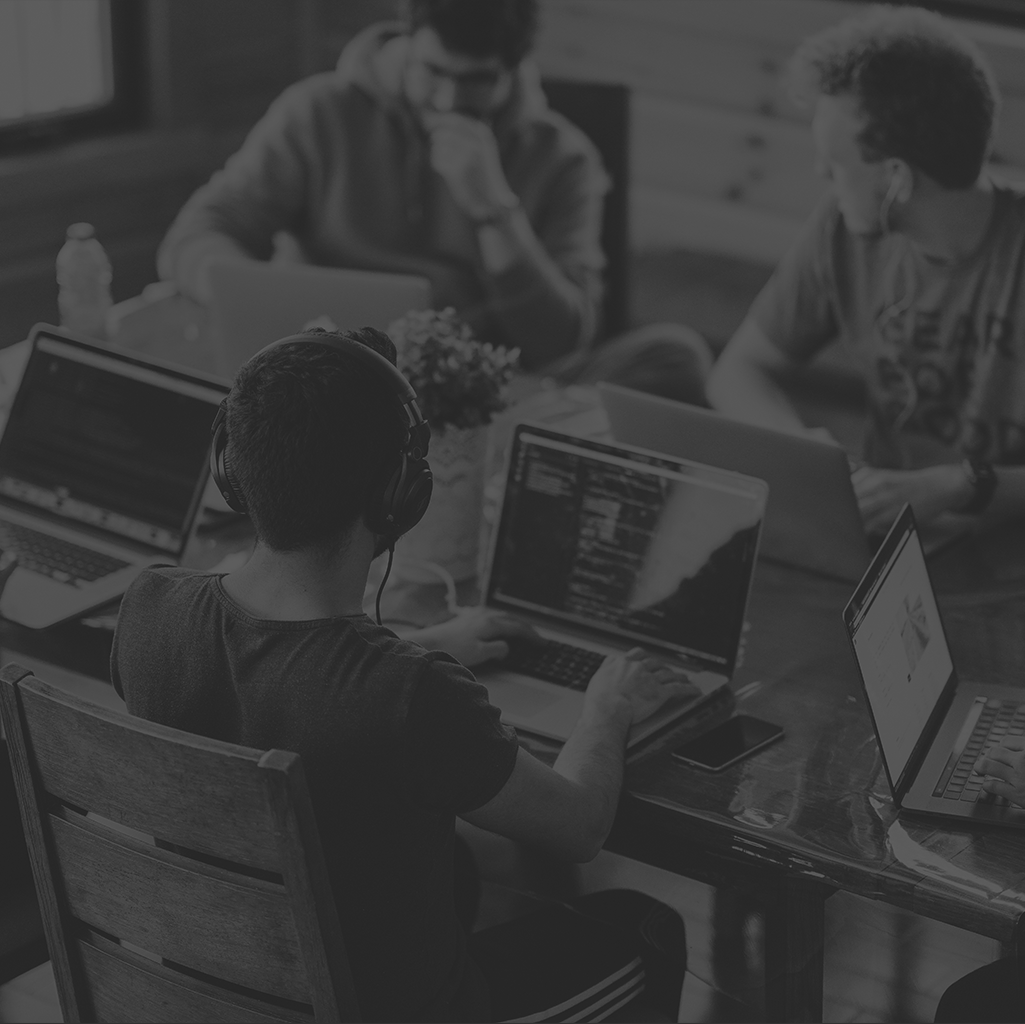
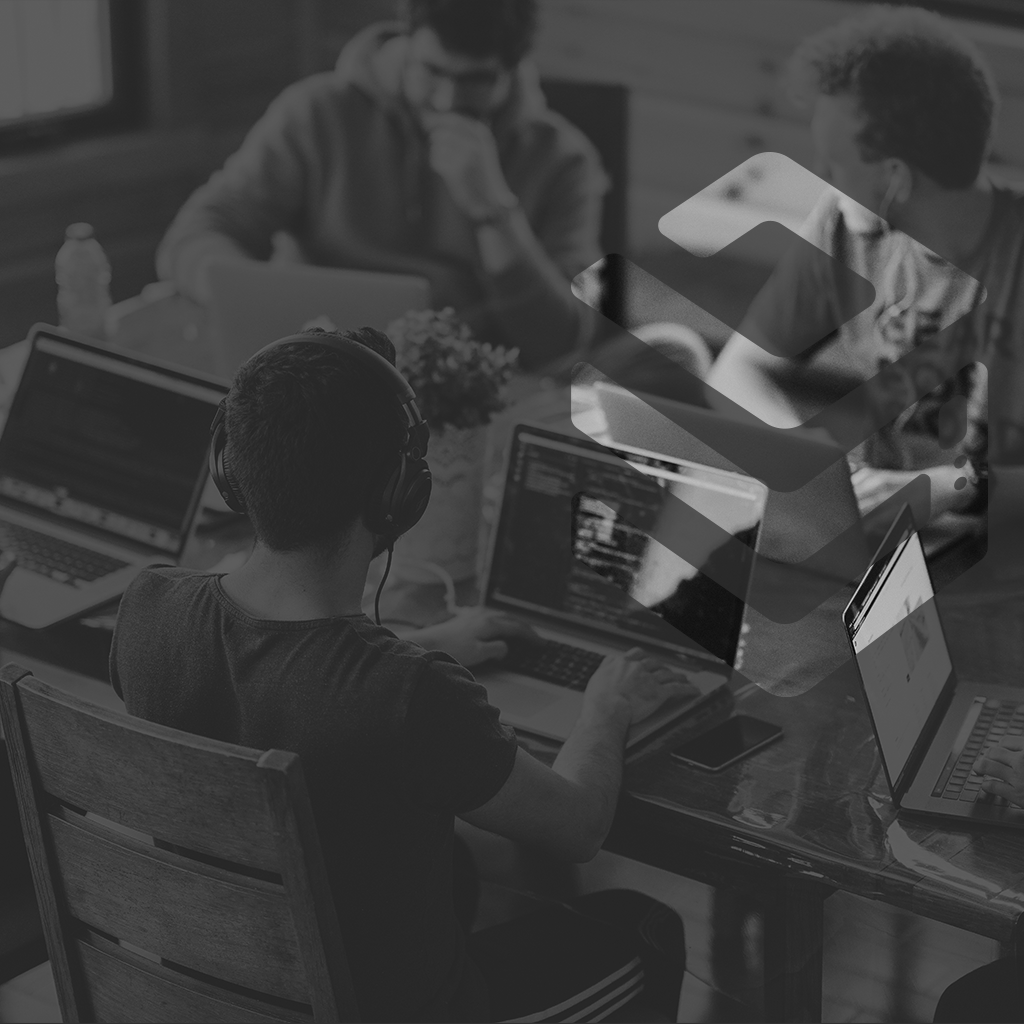
Team slider tabs

diff --git a/pages/index.html b/pages/index.html
@@ -128,15 +128,15 @@
     </header>
     <section id="main">
         <img src="../img/through-elements/hidden-menu/bg/hidden-menu-bg.png" alt="hmbg" class="hidden-menu-paralax-bg">
-        <!-- <picture class="main-bg">
-            <source srcset='../img/bg/bg-1.png' media="(min-width: 1025px)" type="image/png">
-
-            <source srcset='../img/bg/bg-main-tablet.png' media="(min-width: 500px) and (max-width: 1024px)"
-                type="image/png">
-
-            <source srcset='../img/bg/bg-main-mobile.png' media="(max-width: 499px)" type="image/png">
-
-        </picture> -->
+        <picture>
+            <source srcset='../img/index-page/main/bg/bg-1.png' media="(min-width: 1025px)" type="image/png">
+            <source srcset='../img/index-page/main/bg/bg-main-tablet.png'
+                media="(min-width: 500px) and (max-width: 1024px)" type="image/png">
+            <source srcset='../img/index-page/main/bg/bg-main-mobile.png' media="(max-width: 499px)" type="image/png">
+            <!-- #keradan -->
+            <img src="../img/index-page/main/bg/bg-1.png" alt="" class="main-bg"
+                style="position: absolute; top: 50%; left: 50%; min-width: 100%; min-height: 100%; transform: translate(-50%,-50%); transition: opacity 3s ease; transition-delay: .1s;">
+        </picture>
         <div class="container">
             <div class="main-slider">
                 <div class="main-slider-slide">
@@ -234,36 +234,53 @@
                     </svg>
                 </div>
                 <div class="team-slider">
-                    <div class="team-member" data-id="1">
-                        <div class="slider-triangle team-triangle"></div>
-                        <img src="../img/through-elements/team-slider/member-1.png" alt="member" class="team-img">
-                        <p class="team-name text-sm text-xs-mobile rb-bold">Молчановский Сергей</p>
-                        <p class="team-position text-sm text-xs-mobile rb-reg">Директор</p>
+                    <div class="team-member tab-1">
+                        <div class="slider-triangle team-triangle tab-1"></div>
+                        <div class="team-member-envoke" data-id="tab-1">
+                            <img src="../img/through-elements/team-slider/member-1.png" alt="member" class="team-img">
+                            <p class="team-name text-sm text-xs-mobile rb-bold">Молчановский Сергей</p>
+                            <p class="team-position text-sm text-xs-mobile rb-reg">Директор</p>
+                        </div>
                     </div>
-                    <div class="team-member" data-id="2">
-                        <img src="../img/through-elements/team-slider/member-1.png" alt="member" class="team-img">
-                        <p class="team-name text-sm text-xs-mobile rb-bold">Молчановский Сергей</p>
-                        <p class="team-position text-sm text-xs-mobile rb-reg">Директор</p>
+                    <div class="team-member tab-2">
+                        <div class="slider-triangle team-triangle tab-2"></div>
+                        <div class="team-member-envoke" data-id="tab-2">
+                            <img src="../img/through-elements/team-slider/member-1.png" alt="member" class="team-img">
+                            <p class="team-name text-sm text-xs-mobile rb-bold">Молчановский Сергей</p>
+                            <p class="team-position text-sm text-xs-mobile rb-reg">Директор</p>
+                        </div>
                     </div>
-                    <div class="team-member" data-id="3">
-                        <img src="../img/through-elements/team-slider/member-1.png" alt="member" class="team-img">
-                        <p class="team-name text-sm text-xs-mobile rb-bold">Молчановский Сергей</p>
-                        <p class="team-position text-sm text-xs-mobile rb-reg">Директор</p>
+                    <div class="team-member tab-3">
+                        <div class="slider-triangle team-triangle tab-3"></div>
+                        <div class="team-member-envoke" data-id="tab-3">
+                            <img src="../img/through-elements/team-slider/member-1.png" alt="member" class="team-img">
+                            <p class="team-name text-sm text-xs-mobile rb-bold">Молчановский Сергей</p>
+                            <p class="team-position text-sm text-xs-mobile rb-reg">Директор</p>
+                        </div>
                     </div>
-                    <div class="team-member" data-id="4">
-                        <img src="../img/through-elements/team-slider/member-1.png" alt="member" class="team-img">
-                        <p class="team-name text-sm text-xs-mobile rb-bold">Молчановский Сергей</p>
-                        <p class="team-position text-sm text-xs-mobile rb-reg">Директор</p>
+                    <div class="team-member tab-4">
+                        <div class="slider-triangle team-triangle tab-4"></div>
+                        <div class="team-member-envoke" data-id="tab-4">
+                            <img src="../img/through-elements/team-slider/member-1.png" alt="member" class="team-img">
+                            <p class="team-name text-sm text-xs-mobile rb-bold">Молчановский Сергей</p>
+                            <p class="team-position text-sm text-xs-mobile rb-reg">Директор</p>
+                        </div>
                     </div>
-                    <div class="team-member" data-id="5">
-                        <img src="../img/through-elements/team-slider/member-1.png" alt="member" class="team-img">
-                        <p class="team-name text-sm text-xs-mobile rb-bold">Молчановский Сергей</p>
-                        <p class="team-position text-sm text-xs-mobile rb-reg">Директор</p>
+                    <div class="team-member tab-5">
+                        <div class="slider-triangle team-triangle tab-5"></div>
+                        <div class="team-member-envoke" data-id="tab-5">
+                            <img src="../img/through-elements/team-slider/member-1.png" alt="member" class="team-img">
+                            <p class="team-name text-sm text-xs-mobile rb-bold">Молчановский Сергей</p>
+                            <p class="team-position text-sm text-xs-mobile rb-reg">Директор</p>
+                        </div>
                     </div>
-                    <div class="team-member" data-id="6">
-                        <img src="../img/through-elements/team-slider/member-1.png" alt="member" class="team-img">
-                        <p class="team-name text-sm text-xs-mobile rb-bold">Молчановский Сергей</p>
-                        <p class="team-position text-sm text-xs-mobile rb-reg">Директор</p>
+                    <div class="team-member tab-6">
+                        <div class="slider-triangle team-triangle tab-6"></div>
+                        <div class="team-member-envoke" data-id="tab-6">
+                            <img src="../img/through-elements/team-slider/member-1.png" alt="member" class="team-img">
+                            <p class="team-name text-sm text-xs-mobile rb-bold">Молчановский Сергей</p>
+                            <p class="team-position text-sm text-xs-mobile rb-reg">Директор</p>
+                        </div>
                     </div>
                 </div>
             </div>
@@ -306,13 +323,94 @@
     </section>
     <div class="slider-tabs-container team-info-container">
         <div class="container">
-            <div class="team-info-wrap grid-container">
+            <div class="team-info-wrap grid-container" id="tab-1">
                 <div>
                     <p class="slider-tabs-text team-info-text text-sm text-sm-mobile rb-light">Идейные соображения
                         высшего порядка, а
                         также постоянный
                         количественный
                         рост и сфера нашей
+                        активности требуют от нас анализа системы обучения кадров, соответствует насущным потребностям.
+                        Рост и сфера нашей активности требуют от нас анализа системы обучения кадров, соответствует
+                        насущным потребностям.
+                    </p>
+                </div>
+                <div class="flex-container align-center team-info-certificates">
+                    <img src="../img/through-elements/team-slider/certificate.png" alt="">
+                    <img src="../img/through-elements/team-slider/certificate.png" alt="">
+                </div>
+            </div>
+            <div class="team-info-wrap grid-container" id="tab-2">
+                <div>
+                    <p class="slider-tabs-text team-info-text text-sm text-sm-mobile rb-light">Lorem ipsum dolor sit
+                        amet consectetur adipisicing elit. Aut aspernatur dolor vero veritatis assumenda cupiditate
+                        voluptatem deleniti magnam dolores distinctio.
+                    </p>
+                </div>
+                <div class="flex-container align-center team-info-certificates">
+                    <img src="../img/through-elements/team-slider/certificate.png" alt="">
+                    <img src="../img/through-elements/team-slider/certificate.png" alt="">
+                </div>
+            </div>
+            <div class="team-info-wrap grid-container" id="tab-3">
+                <div>
+                    <p class="slider-tabs-text team-info-text text-sm text-sm-mobile rb-light">Идейные соображения
+                        высшего порядка, а
+                        также постоянный
+                        количественный
+                        рост и сфера нашей
+                        Lorem ipsum dolor sit amet consectetur adipisicing elit. Animi nam enim mollitia accusamus
+                        praesentium cupiditate corrupti libero voluptatibus corporis molestiae?
+                    </p>
+                </div>
+                <div class="flex-container align-center team-info-certificates">
+                    <img src="../img/through-elements/team-slider/certificate.png" alt="">
+                    <img src="../img/through-elements/team-slider/certificate.png" alt="">
+                </div>
+            </div>
+            <div class="team-info-wrap grid-container" id="tab-4">
+                <div>
+                    <p class="slider-tabs-text team-info-text text-sm text-sm-mobile rb-light">Lorem ipsum dolor sit
+                        amet consectetur adipisicing elit. Culpa debitis eos dolore voluptas non iusto fugiat architecto
+                        possimus, officiis quos aliquid veniam eum nostrum, eius unde ipsum nulla doloribus assumenda!
+                        активности требуют от нас анализа системы обучения кадров, соответствует насущным потребностям.
+                        Рост и сфера нашей активности требуют от нас анализа системы обучения кадров, соответствует
+                        насущным потребностям.
+                    </p>
+                </div>
+                <div class="flex-container align-center team-info-certificates">
+                    <img src="../img/through-elements/team-slider/certificate.png" alt="">
+                    <img src="../img/through-elements/team-slider/certificate.png" alt="">
+                </div>
+            </div>
+            <div class="team-info-wrap grid-container" id="tab-5">
+                <div>
+                    <p class="slider-tabs-text team-info-text text-sm text-sm-mobile rb-light">
+                        Lorem ipsum dolor sit
+                        amet consectetur adipisicing elit. Culpa debitis eos dolore voluptas non iusto fugiat architecto
+                        possimus, officiis quos aliquid veniam eum nostrum, eius unde ipsum nulla doloribus assumenda!
+                        активности требуют от нас анализа системы обучения кадров, соответствует насущным потребностям.
+                        Рост и сфера нашей активности требуют от нас анализа системы обучения кадров, соответствует
+                        насущным потребностям.
+                        de ipsum nulla doloribus assumenda!
+                        активности требуют от нас анализа системы обучения кадров, соответствует насущным потребностям.
+                        Рост и сфера нашей активности требуют от нас анализа системы обучения кадров, соответствует
+                        насущным потребностям.
+                    </p>
+                </div>
+                <div class="flex-container align-center team-info-certificates">
+                    <img src="../img/through-elements/team-slider/certificate.png" alt="">
+                    <img src="../img/through-elements/team-slider/certificate.png" alt="">
+                </div>
+            </div>
+            <div class="team-info-wrap grid-container" id="tab-6">
+                <div>
+                    <p class="slider-tabs-text team-info-text text-sm text-sm-mobile rb-light">
+                        possimus, officiis quos aliquid veniam eum nostrum, eius unde ipsum nulla doloribus assumenda!
+                        активности требуют от нас анализа системы обучения кадров, соответствует насущным потребностям.
+                        Рост и сфера нашей активности требуют от нас анализа системы обучения кадров, соответствует
+                        насущным потребностям.
+                        de ipsum nulla doloribus assumenda!
                         активности требуют от нас анализа системы обучения кадров, соответствует насущным потребностям.
                         Рост и сфера нашей активности требуют от нас анализа системы обучения кадров, соответствует
                         насущным потребностям.

diff --git a/js/script.js b/js/script.js
@@ -19,32 +19,6 @@ function runCounters(start, duration) {
 
 }
 
-
-// function runCounters(start, duration) {
-//     const counters = document.querySelectorAll('.stats-number');
-//     counters.forEach((counter) => {
-//         // let end = counter.innerHTML.replace("+", "")
-//         // let range = end - start;
-//         // let current = start;
-//         // // let increment = end > start ? 1 : -1;
-//         // let stepTime = Math.abs(Math.floor(duration / range));
-//         // let timer = setInterval(function () {
-//         //     current = Math.random();
-//         //     counter.innerHTML = current + "+";
-//         //     // clearInterval(timer);
-//         // }, stepTime);
-//         setInterval(function () {
-//             counter.innerText = Math.floor(Math.random() * 100);
-//         }, 200)
-
-//     })
-
-// }
-
-
-
-
-
 const target = document.querySelector('#stats');
 
 
@@ -58,9 +32,6 @@ function handleIntersection(entries, observer) {
         }
     });
 }
-
-
-
 
 const observer = new IntersectionObserver(handleIntersection);
 observer.observe(target);
@@ -95,8 +66,45 @@ function chooseLanguage() {
     })
 }
 //  Select team slider ======================================================================
-const teamMember = document.querySelectorAll('.team-member');
+const teamMember = document.querySelectorAll('.team-member-envoke');
 const controls = document.querySelectorAll('.team-slider-controls')
+const activeBlocks = document.querySelectorAll('.team-triangle , .team-info-container, .team-member')
+const teamInfoContainer = document.querySelector('.team-info-container')
+const teamInfo = document.querySelectorAll('.team-info-wrap')
+
+
+
+teamSlider.events.on('indexChanged', function (info, eventName) {
+    activeBlocks.forEach((active) => {
+        active.classList.remove('active-tab');
+
+    })
+});
+
+
+
+
+teamMember.forEach((member) => {
+    member.addEventListener('click', showInfo)
+
+    function showInfo() {
+
+        teamInfo.forEach((info) => {
+            info.classList.remove('active-tab')
+            if (info.id === member.dataset.id) {
+                info.classList.add('active-tab')
+                activeBlocks.forEach((active) => {
+                    active.classList.remove('active-tab')
+                    teamInfoContainer.classList.add('active-tab')
+                    if (active.classList.contains(member.dataset.id)) {
+                        active.classList.add('active-tab')
+                    }
+                })
+            }
+        })
+    }
+})
+
 
 
 
@@ -229,7 +237,7 @@ const reviewSliderOutter = document.querySelector('.review-slider-hidden-outter'
 const zoomIcon = document.querySelectorAll('.review-slide-zoom-icon')
 console.log(zoomIcon)
 zoomIcon.forEach((icon) => {
-    console.log(icon)
+    // console.log(icon)
     icon.addEventListener('click', showSlider)
 })
 

diff --git a/css/style.css b/css/style.css
@@ -957,7 +957,7 @@ iframe {
 } */
 
 .slider-tabs-container {
-    /* display: none; */
+    display: none;
     width: 100%;
     background: #181715;
     position: relative;
@@ -1031,9 +1031,10 @@ iframe {
 
 /* Main section ================================================================================================================================================= */
 #main {
-    background: url(../img/index-page/main/bg/bg-1.png) center/cover;
+    /* background: url(../img/index-page/main/bg/bg-1.png) center/cover; */
     padding-top: 235px;
-    /* position: relative; */
+    position: relative;
+    overflow: hidden;
 }
 
 /* .main-bg {
@@ -1096,6 +1097,8 @@ iframe {
     height: 2px;
     background: rgba(255, 255, 255, 0.25);
     margin-top: 76px;
+    z-index: 100;
+    position: relative;
 }
 
 .navigation-menu {
@@ -1214,7 +1217,7 @@ iframe {
     box-shadow: inset 0px 0px 50px -50px #EC400A; */
 }
 
-.team-member:before {
+.active-tab:before {
     content: '';
     width: 100%;
     height: 100%;
@@ -1241,6 +1244,7 @@ iframe {
     grid-template-columns: auto auto;
     gap: 70px;
     position: relative;
+    display: none;
 }
 
 .team-info-text {
@@ -1257,7 +1261,11 @@ iframe {
 
 .team-triangle {
     right: 55px;
-    display: block;
+    display: none;
+}
+
+.active-tab {
+    display: grid;
 }
 
 /* Team section end =================================================================================================================*/
@@ -3353,6 +3361,7 @@ iframe {
     }
 
     .navigation-menu-wrap {
+        position: relative;
         background: var(--secondary-color);
         padding: 50px 0;
     }

diff --git a/js/parallax.js b/js/parallax.js
@@ -11,9 +11,9 @@ window.addEventListener('scroll', myFunction)
 function myFunction() {
     console.log('test')
     let scrolltotop = document.scrollingElement.scrollTop;
-    console.log(scrolltotop)
+    // console.log(scrolltotop)
     let target = document.querySelector('.hidden-menu-paralax-bg');
-    console.log(target)
+    // console.log(target)
     // let xvalue = "center";
     let factor = 0.05;
     let yvalue = scrolltotop * factor;

diff --git a/Readme.md b/Readme.md
@@ -163,3 +163,9 @@ Header:
 []Add Read more on first KTO MI paragraph
 []Check headlines like FIND US ON MAP
 []Ability to change language
+
+
+
+
+overflow hidden
+position absolute
